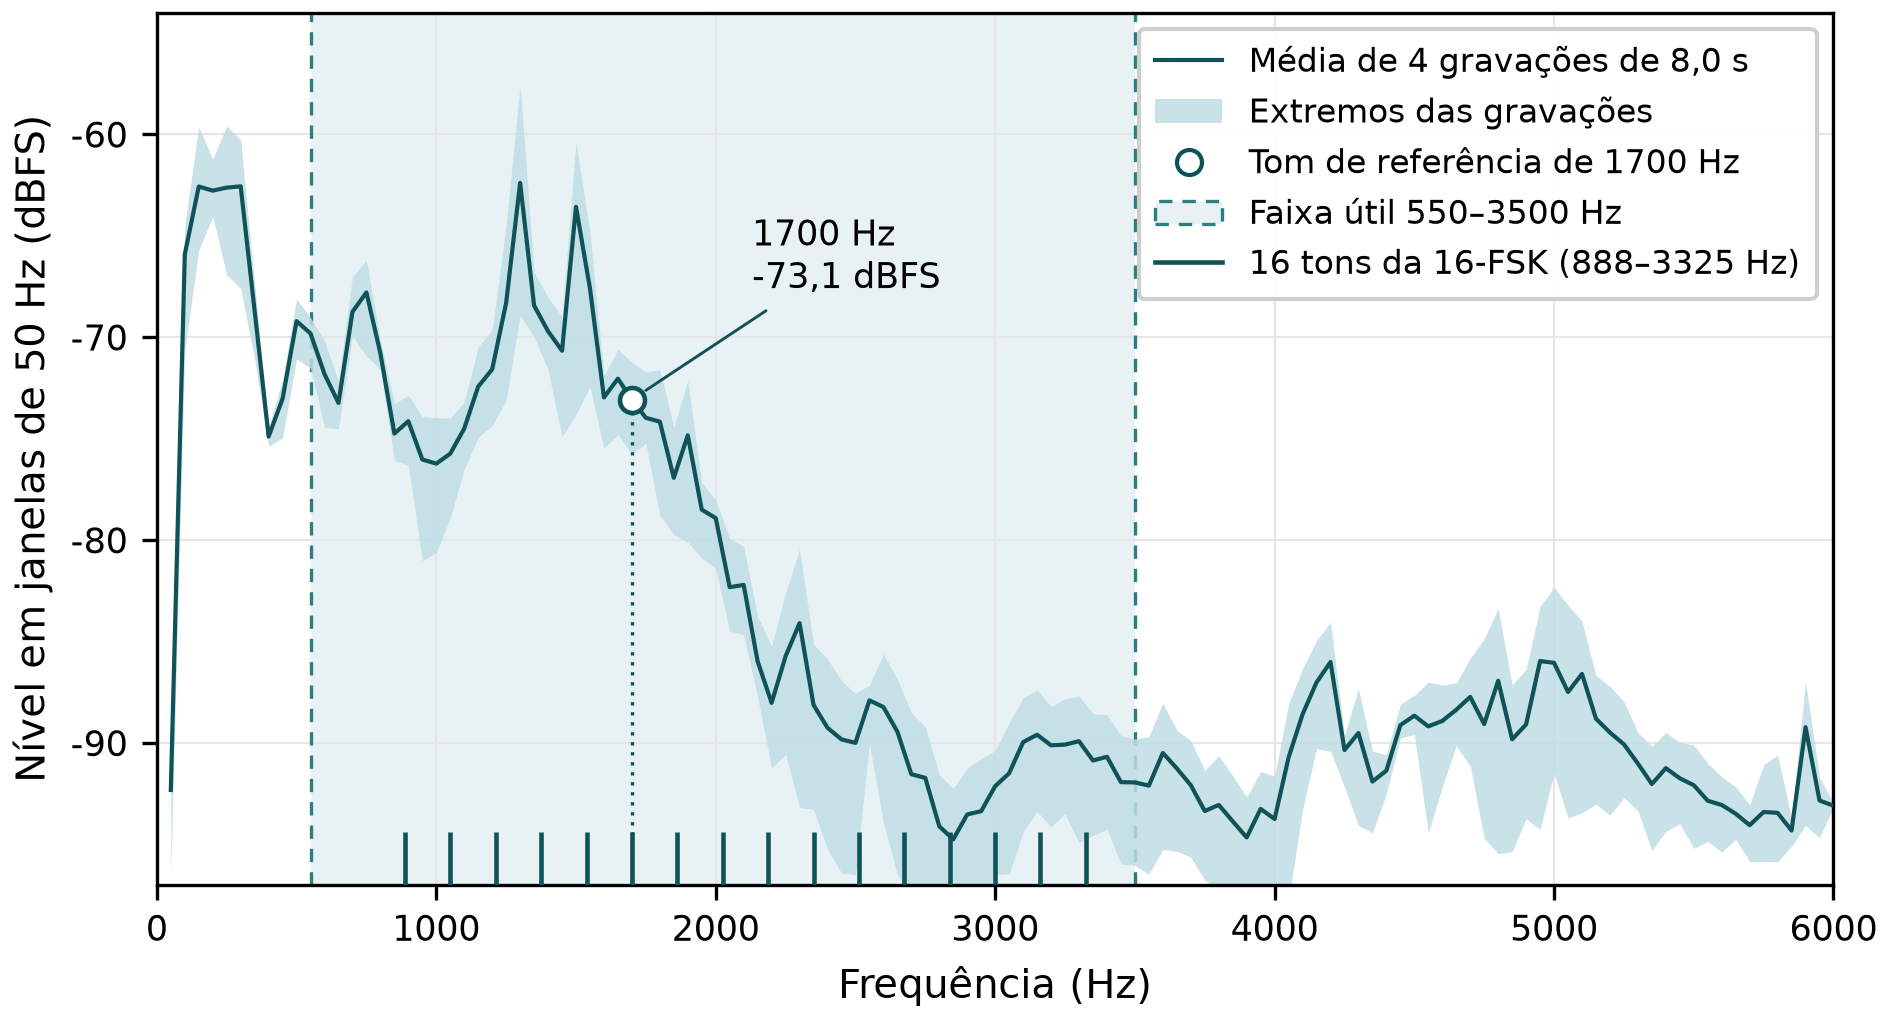
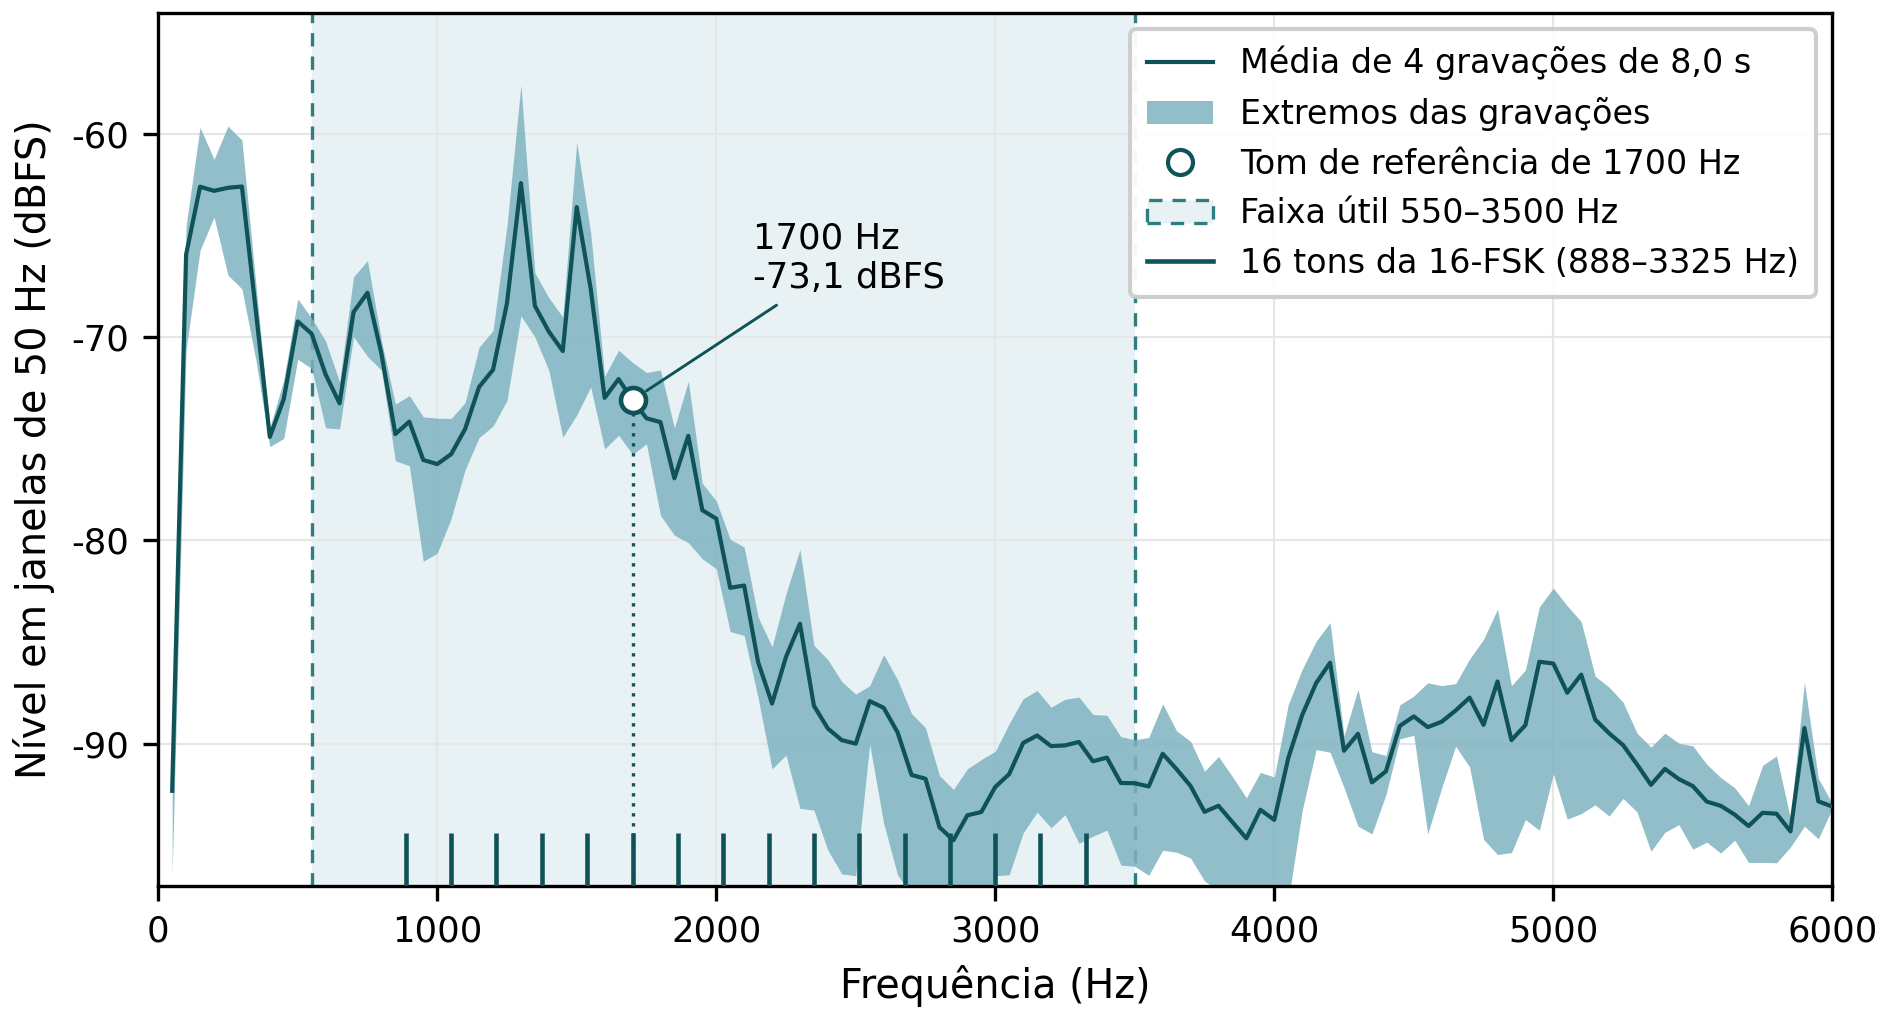
artigo: Figura 2 com os extremos das gravações mais escuros
O envelope (#BFDDE4) sumia sobre o fundo da faixa útil (#E8F2F5) e podia
ser lido como a própria faixa. Agora #7FB3C0, separado também em escala de
cinza. Regenerada das gravações; números iguais aos do texto.

diff --git a/resultados/01-LVL-BASE-A2B/figuras/figura_piso.py b/resultados/01-LVL-BASE-A2B/figuras/figura_piso.py
@@ -70,7 +70,7 @@ LARGURA = 6.3           # polegadas ~ 16 cm, uma coluna
 # proprios, e a cor apenas reforca.
 TEAL = '#0F5257'
 TEAL_MED = '#2E7D82'
-GELO = '#BFDDE4'
+GELO = '#7FB3C0'        # escuro o bastante para nao sumir sobre GELO_CLARO na faixa util
 GELO_CLARO = '#E8F2F5'
 
 # Dois destinos e uma geracao so. O PNG do artigo e o mesmo arquivo que
